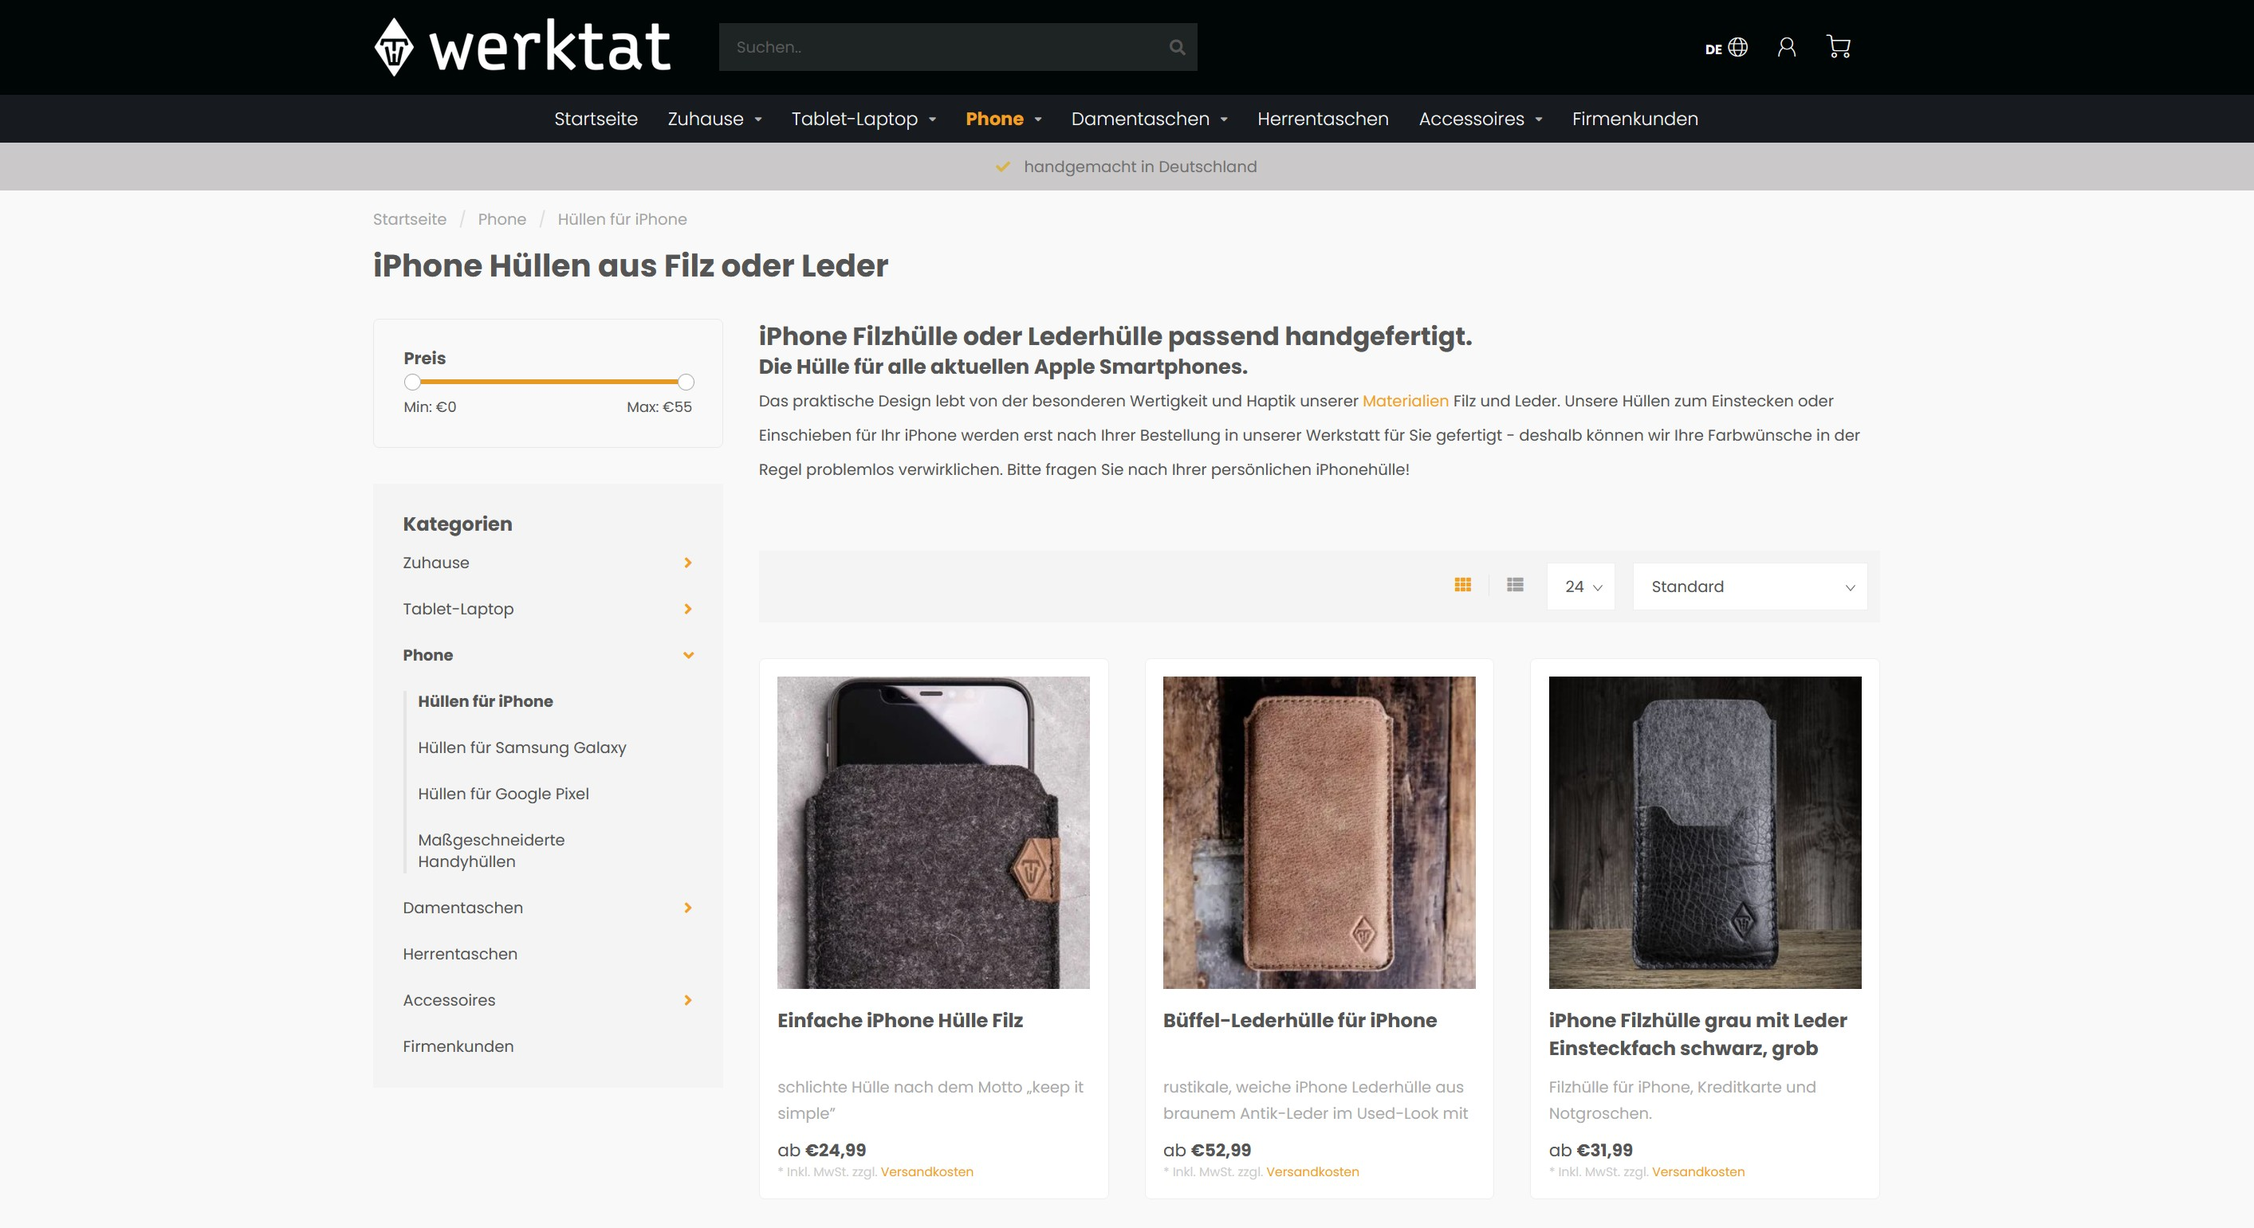
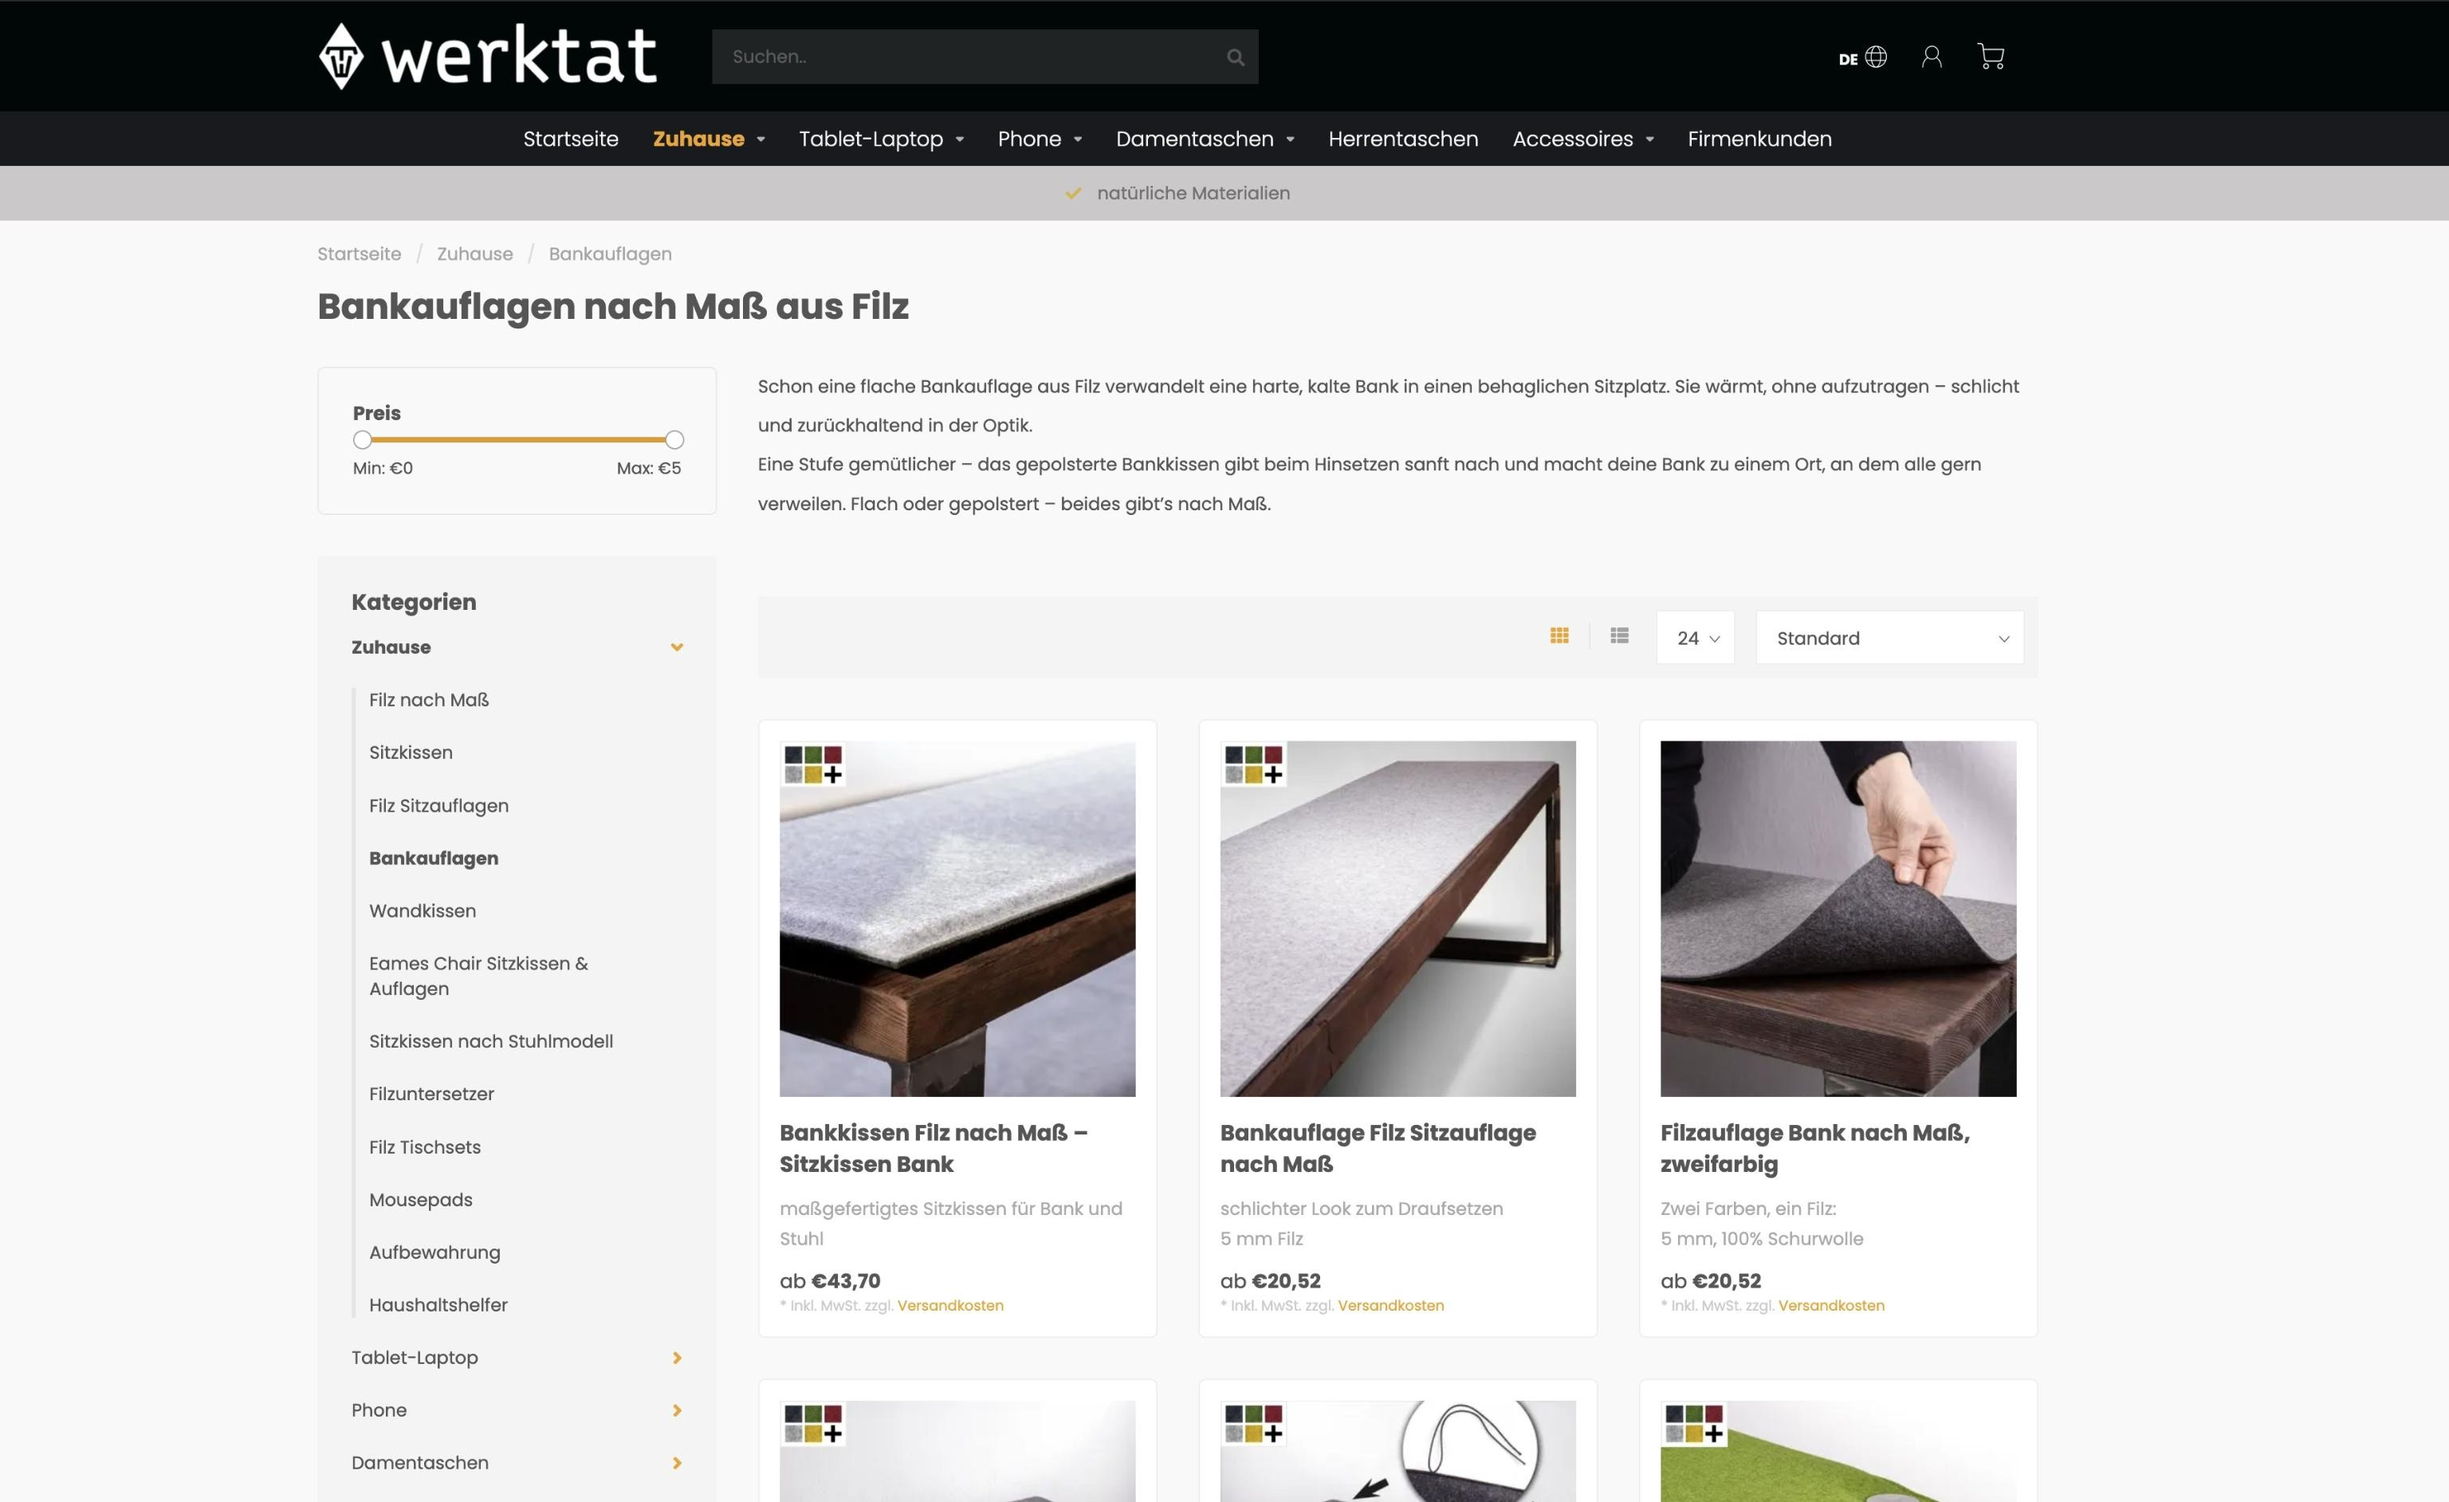
quali check for werktat

diff --git a/_site/haus-und-garten/werktat/index.html b/_site/haus-und-garten/werktat/index.html
@@ -147,7 +147,7 @@
         <img class="card-img-top p-2" src="/assets/images/werktat_logo.png" alt="Card image cap">
         <div class="card-body text-center">
           <p class="card-text">Handgefertigte Produkte aus Wollfilz und Echtleder</p>
-          <span class="affili" data-affili="https://www.werktat-shop.de/de/" rel="sponsored">
+          <span class="affili" data-affili="https://www.werktat-shop.de/de/" rel="dofollow">
             <div class="btn btn-success">
               Besuche werktat
             </div>
@@ -216,7 +216,7 @@
                 <h2 class="text-muted h5">Handgefertigte Produkte aus Wollfilz und Echtleder</h2>
                 
                 <p>Wer sein Zuhause nachhaltiger gestalten möchte, muss nicht gleich Möbel austauschen. Oft sind es die kleinen Dinge, die den Unterschied machen: langlebige Materialien statt Wegwerfware, Naturfasern statt Kunststoff, Maßanfertigung statt Massenprodukt. Genau hier setzt werktat an – eine Manufaktur aus Ilsfeld in Baden-Württemberg, die sich auf die Verarbeitung von reinem Wollfilz und Echtleder spezialisiert hat. Die Umfangreiche Produktpalette umfasst neben Filzzuschnitten, Bankauflagen und Sitzkissen viele weitere Produkte für den Home-Bereich. Zudem bietet werktat Hüllen für Laptops und Handys sowie Taschen für Damen und Herren an – alles handwerklich gefertigt.</p>
-                <span id="productCta" class="affili" data-affili="https://www.werktat-shop.de/de/" rel="sponsored">
+                <span id="productCta" class="affili" data-affili="https://www.werktat-shop.de/de/" rel="dofollow">
                 
                 
                     <div class="btn btn-outline-success mb-4 w-100">
@@ -239,7 +239,7 @@
 <p>Bei werktat wird das Material nicht versteckt, sondern gezeigt. Beim Zuschnitt entstehen saubere Kanten, die nicht ausfransen – so kann „offenkantig” gearbeitet werden, ganz ohne zusätzliche Einfassungen. Wo Leder zum Einsatz kommt, setzt werktat auf robustes Rindsleder, teils vegetabil – also pflanzlich – gegerbt. Statt sich abzunutzen, entwickelt es mit den Jahren eine individuelle Patina und wird immer schöner. Genau diese ehrliche Machart ist gelebte Nachhaltigkeit: Naturmaterialien, die altern dürfen, statt ersetzt zu werden.</p>
 
 <h3>Die Website von werktat</h3>
-<p><span class="affili" data-affili="https://www.werktat-shop.de/de/" rel="nofollow">
+<p><span class="affili" data-affili="https://www.werktat-shop.de/de/" rel="dofollow">
     <img src="/assets/images/screenshots/werktat_screenshot.jpg" class="img-fluid" alt="Website Vorschau von werktat" />
 </span></p>
 
@@ -255,12 +255,12 @@
 
 <h3 id="werktat-handarbeit-statt-massenware">werktat: Handarbeit statt Massenware</h3>
 
-<p>Hinter werktat steht eine Werkstatt, in der jedes Stück von Hand entworfen und gefertigt wird. Wer hier bestellt, bekommt kein anonymes Industrieprodukt, sondern eine Anfertigung aus Naturmaterial, made in Germany – und ein Stück Wohnkultur, das bleibt.</p>
+<p>Hinter <a href="https://www.werktat-shop.de/de/" target="_blank">werktat</a> steht eine Werkstatt, in der jedes Stück von Hand entworfen und gefertigt wird. Wer hier bestellt, bekommt kein anonymes Industrieprodukt, sondern eine Anfertigung aus Naturmaterial, made in Germany – und ein Stück Wohnkultur, das bleibt.</p>
 
             </div>
         </div>
         <div class="col-lg-3 col-sm-12">
-            <span class="affili" data-affili="https://www.werktat-shop.de/de/" rel="sponsored">
+            <span class="affili" data-affili="https://www.werktat-shop.de/de/" rel="dofollow">
                 <div class="text-center mb-3">
                     <div>
                         <img class="img-fluid mt-4" loading="lazy" src="/assets/images/werktat_logo.png" alt="werktat Logo" />
@@ -459,7 +459,7 @@
         <span 
         class="affili" 
         data-affili="https://www.werktat-shop.de/de/" 
-        rel="sponsored">
+        rel="dofollow">
             <div class="col d-lg-none py-2">
                 <div class="text-center">
                     <div class="btn btn-success">

diff --git a/haus-und-garten/_posts/2026-09-12-werktat.md b/haus-und-garten/_posts/2026-09-12-werktat.md
@@ -3,6 +3,7 @@ author: Tomislav
 title: werktat
 slogan: Handgefertigte Produkte aus Wollfilz und Echtleder
 targetUrl: https://www.werktat-shop.de/de/
+relType: dofollow
 image: /assets/images/werktat_logo.png
 screenshot: /assets/images/screenshots/werktat_screenshot.jpg
 rubric: Haus & Garten
@@ -53,4 +54,4 @@ Filzzuschnitte im Wunschmaß: Wer selbst gestalten möchte, findet in den Filzzu
 
 ### werktat: Handarbeit statt Massenware
 
-Hinter werktat steht eine Werkstatt, in der jedes Stück von Hand entworfen und gefertigt wird. Wer hier bestellt, bekommt kein anonymes Industrieprodukt, sondern eine Anfertigung aus Naturmaterial, made in Germany – und ein Stück Wohnkultur, das bleibt.
+Hinter [werktat](https://www.werktat-shop.de/de/){:target="_blank"} steht eine Werkstatt, in der jedes Stück von Hand entworfen und gefertigt wird. Wer hier bestellt, bekommt kein anonymes Industrieprodukt, sondern eine Anfertigung aus Naturmaterial, made in Germany – und ein Stück Wohnkultur, das bleibt.
